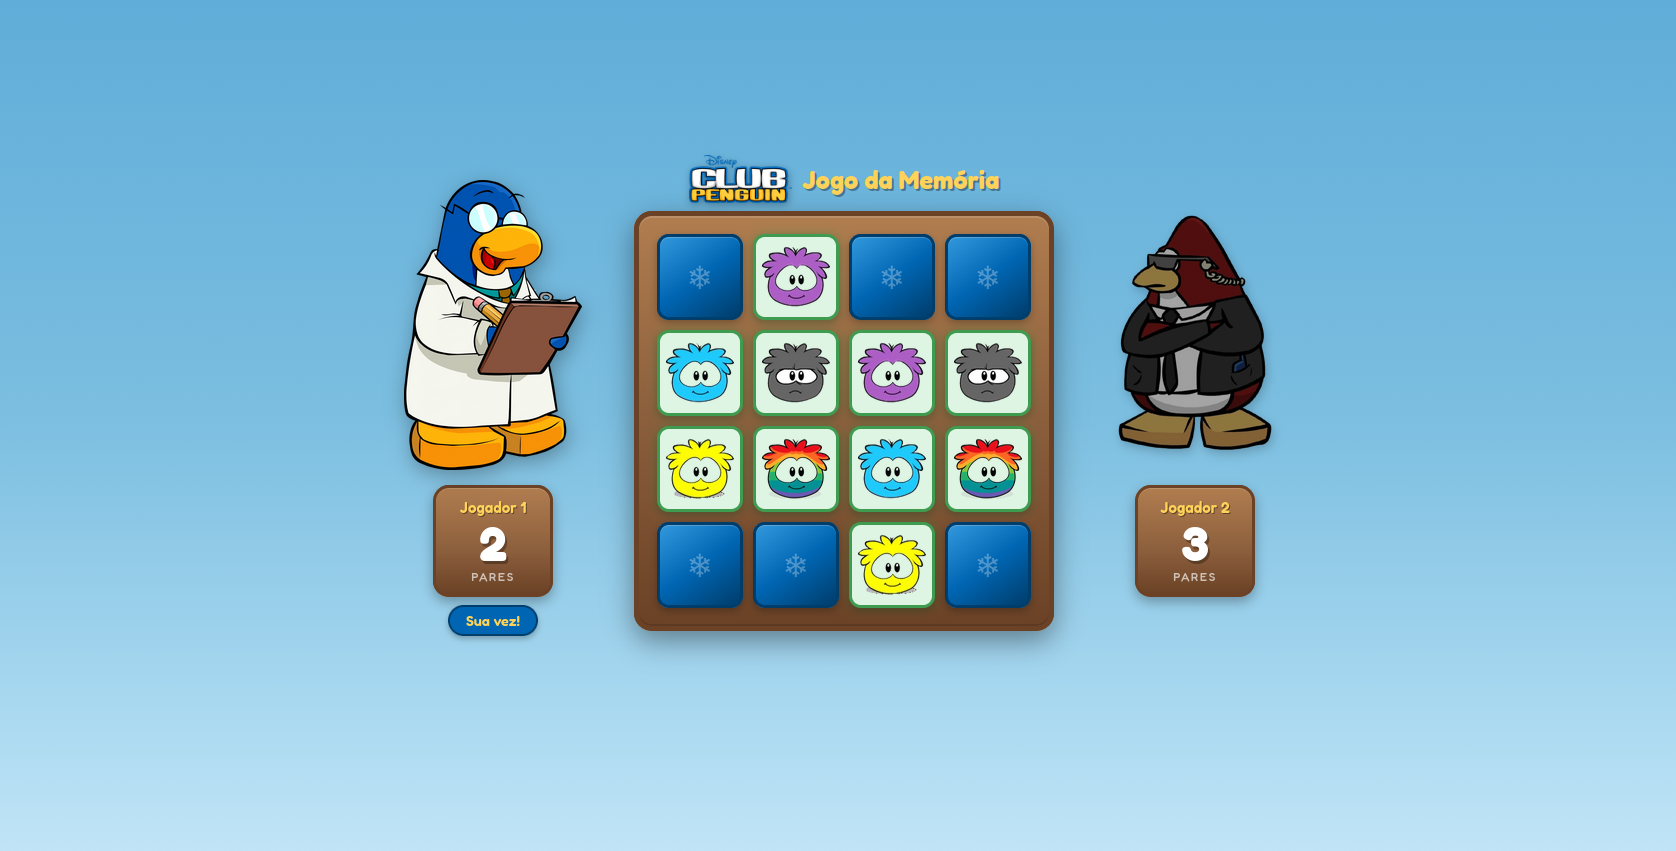
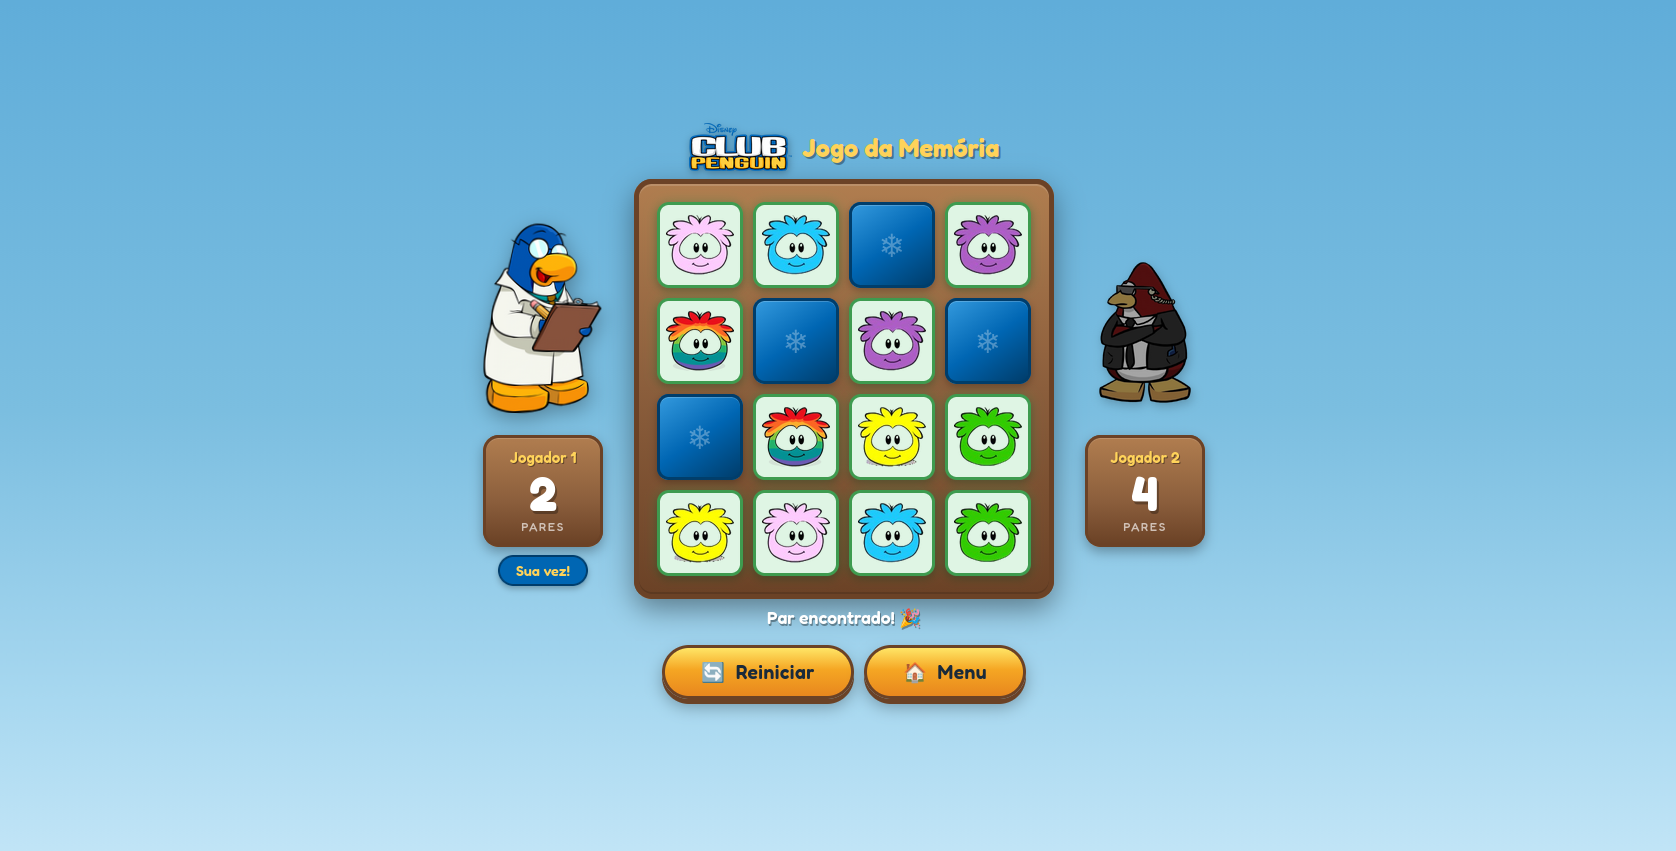
add: mudanças no readme

Changed region(s): [[0.2172, 0.1528, 0.7757, 0.8555]]

diff --git a/README.md b/README.md
@@ -16,6 +16,11 @@ Jogo da Memória para dois jogadores com temática inspirada no **Club Penguin**
 4. O jogo termina quando **todos os 8 pares** forem encontrados.
 5. Vence o jogador que encontrar **mais pares**!
 
+### Botões do Jogo
+
+- 🔄 **Reiniciar**: reinicia a partida atual, embaralhando as cartas e zerando o placar.
+- 🏠 **Menu**: retorna para a tela inicial do jogo.
+
 ### Personagens
 
 | Jogador   | Pinguim                |
@@ -76,6 +81,8 @@ progweb/
 - 🎯 **Jogo da Memória** completo com 16 cartas (8 pares)
 - 👥 **2 Jogadores** com alternância automática de turnos
 - 🐧 **Pinguins animados** que mudam de pose conforme o estado (jogando/esperando)
+- 🔄 **Botão de reinício rápido** durante a partida
+- 🏠 **Navegação para o menu inicial**
 - ❄ **Efeito de neve** com partículas na tela inicial
 - 🃏 **Animação de virada** das cartas com efeito 3D (CSS perspective)
 - 🏆 **Tela de resultado** com placar final e destaque do vencedor
@@ -88,4 +95,4 @@ MIT License.
 
 ---
 
-Desenvolvido como atividade prática — **GAC116 Programação Web 2026/1** — Marina Hermógenes
+Desenvolvido como atividade prática — **GAC116 Programação Web 2026/1** — Marina Hermógenes Siqueira.
